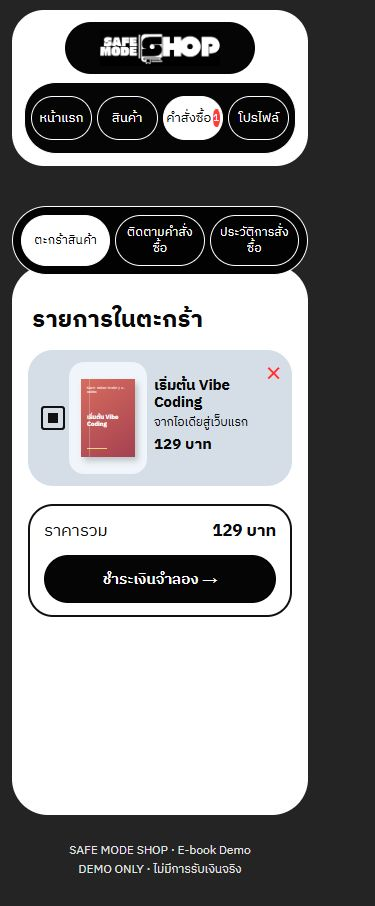
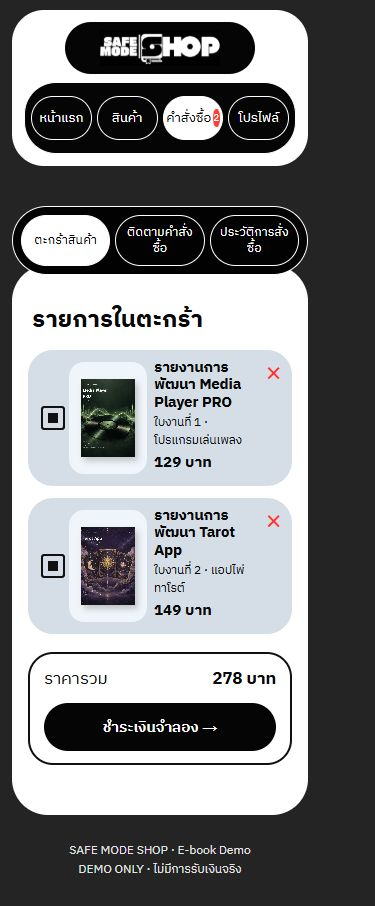
Replace sample catalog with four supplied PDFs

diff --git a/public/styles.css b/public/styles.css
@@ -60,21 +60,14 @@ input:not([type=checkbox]):focus{outline:3px solid #ffbaba;outline-offset:2px}
 .showcase-actions{display:flex;justify-content:center;align-items:center;gap:22px;color:#fff;padding:15px 0 35px}
 
 /* Book covers */
-.book-cover{width:165px;height:226px;color:#fff;padding:21px 17px;display:flex;flex-direction:column;justify-content:space-between;box-shadow:10px 12px 17px rgba(0,0,0,.2),inset 5px 0 6px rgba(0,0,0,.13);position:relative}
-.book-cover:after{content:"";position:absolute;left:8px;top:0;bottom:0;border-left:1px solid rgba(255,255,255,.25)}
-.cover-vibe{background:linear-gradient(145deg,#d76c5e,#a44151)}
-.cover-design{background:linear-gradient(145deg,#246b78,#16445b)}
-.cover-launch{background:linear-gradient(145deg,#8162ab,#494586)}
-.cover-kicker{font-size:.55rem;line-height:1.3;letter-spacing:.13em;opacity:.9}
-.cover-title{font-size:1.02rem;line-height:1.25}
-.cover-line{width:42px;height:2px;background:#f3d570}
+.book-cover{display:block;width:165px;height:226px;object-fit:cover;box-shadow:10px 12px 17px rgba(0,0,0,.2)}
 
 /* Catalog */
 .catalog-hero{background:#fff;border-radius:100px;padding:48px 5.5% 42px;min-height:360px;display:flex;flex-direction:column;align-items:flex-start}
 .catalog-hero h1{font-size:clamp(2.6rem,5.2vw,5.5rem);line-height:1.23;margin:10px 0 30px;font-weight:700;letter-spacing:-.045em}
 .catalog-hero h1 span{font-size:.73em}
 .catalog-hero p{font-weight:700;font-size:1.15rem;margin:auto 0 0}
-.product-grid{display:grid;grid-template-columns:repeat(3,minmax(0,1fr));gap:24px;padding:0 12px 35px}
+.product-grid{display:grid;grid-template-columns:repeat(4,minmax(0,1fr));gap:24px;padding:0 12px 35px}
 .product-card{background:#fff;border-radius:28px;overflow:hidden;display:flex;flex-direction:column}
 .product-cover{background:#e9f0f6;min-height:305px;display:grid;place-items:center}
 .product-copy{padding:21px 24px 25px;display:flex;flex-direction:column;flex:1}
@@ -179,7 +172,7 @@ input:not([type=checkbox]):focus{outline:3px solid #ffbaba;outline-offset:2px}
   .site-header{height:auto;min-height:95px}.brand{min-width:175px;width:220px;height:62px}
   .nav-pills{min-height:72px;padding:8px}.nav-pills>a:not(.nav-exit){min-width:100px;height:54px;padding:5px 15px;font-size:1rem}.nav-exit{font-size:2rem;padding-right:8px}
   .cart-row{grid-template-columns:32px 180px 1fr 35px}.cart-cover{height:185px}.cart-copy h2{font-size:1.4rem}
-  .product-grid{gap:16px}.product-copy{padding:18px}
+  .product-grid{grid-template-columns:repeat(2,minmax(0,1fr));gap:16px}.product-copy{padding:18px}
 }
 @media(max-width:800px){
   .app-shell{padding:10px 12px 0}.site-header{border-radius:32px;flex-wrap:wrap;padding:12px;gap:8px}.brand{margin:auto;height:52px;width:190px;min-width:190px}
@@ -200,10 +193,10 @@ input:not([type=checkbox]):focus{outline:3px solid #ffbaba;outline-offset:2px}
   .showcase{grid-template-columns:26px 1fr 26px;gap:3px;min-height:360px}.showcase-side{display:none}.showcase-feature{height:345px}.showcase-feature .book-cover{transform:scale(1.05)}.showcase-arrow{font-size:3rem}.showcase-actions{padding-top:12px}
   .detail-panel{display:block;padding:22px}.detail-cover{min-height:260px}.detail-cover .book-cover{transform:scale(.95)}.detail-copy{padding-top:23px}.detail-copy h2{font-size:2rem}.detail-subtitle{font-size:1.1rem}.detail-meta{gap:18px;font-size:.88rem}.detail-actions .pill-button{flex:1}
   .order-tabs a{font-size:.78rem;white-space:normal;min-height:47px;display:grid;place-items:center}.cart-panel>h1,.history-panel>h1{font-size:1.5rem;margin:15px 4px}
-  .cart-row{grid-template-columns:25px 78px 1fr 24px;gap:7px;min-height:136px;padding:9px}.cart-cover{height:112px}.cart-cover .book-cover{width:54px;height:78px;padding:8px 6px;transform:none;box-shadow:3px 4px 6px rgba(0,0,0,.2)}.cart-cover .cover-kicker{font-size:.19rem}.cart-cover .cover-title{font-size:.38rem}.cart-cover .cover-line{width:20px;height:1px}.cart-copy h2{font-size:.92rem}.cart-copy p{font-size:.74rem;margin:1px 0}.cart-copy p:nth-of-type(2){display:none}.cart-copy strong{font-size:.95rem}.remove-button{font-size:1.8rem;width:24px;height:28px}
+  .cart-row{grid-template-columns:25px 78px 1fr 24px;gap:7px;min-height:136px;padding:9px}.cart-cover{height:112px}.cart-cover .book-cover{width:54px;height:78px;transform:none;box-shadow:3px 4px 6px rgba(0,0,0,.2)}.cart-copy h2{font-size:.92rem}.cart-copy p{font-size:.74rem;margin:1px 0}.cart-copy p:nth-of-type(2){display:none}.cart-copy strong{font-size:.95rem}.remove-button{font-size:1.8rem;width:24px;height:28px}
   .cart-total{border-radius:25px;display:block;padding:12px 14px;font-size:1.05rem}.cart-total span{margin-bottom:11px}.cart-total .pill-button{width:100%;min-width:0;min-height:48px}
   .checkout-panel,.status-panel{border-radius:30px;padding:24px 20px}.checkout-title h2,.status-panel-head h2{font-size:1.45rem;word-break:break-word}.demo-note{display:block;padding:12px;font-size:.85rem}.demo-note strong{display:inline-block;margin-right:6px}
-  .checkout-columns{display:block}.checkout-columns>div+div{margin-top:30px;border-top:1px solid #ccc;padding-top:25px}.checkout-cover,.status-cover{width:75px;height:85px;border-radius:13px}.checkout-cover .book-cover,.status-cover .book-cover{width:48px;height:68px;padding:7px 5px;transform:none;box-shadow:2px 3px 5px rgba(0,0,0,.2)}.checkout-cover .cover-kicker,.status-cover .cover-kicker{font-size:.17rem}.checkout-cover .cover-title,.status-cover .cover-title{font-size:.34rem}.checkout-cover .cover-line,.status-cover .cover-line{width:18px;height:1px}
+  .checkout-columns{display:block}.checkout-columns>div+div{margin-top:30px;border-top:1px solid #ccc;padding-top:25px}.checkout-cover,.status-cover{width:75px;height:85px;border-radius:13px}.checkout-cover .book-cover,.status-cover .book-cover{width:48px;height:68px;transform:none;box-shadow:2px 3px 5px rgba(0,0,0,.2)}
   .status-id{display:block;font-size:.86rem}.status-id strong{display:block}.status-id button{margin-top:5px}.status-facts{display:block}.status-facts>div+div{margin-top:10px}.payment-demo{display:block}.payment-demo .pill-button{width:100%;margin-top:17px}.track-panel{border-radius:30px;padding:25px 20px}.track-panel h1{font-size:1.8rem}
   .history-row{display:block;padding:16px}.history-row>div:last-child{margin-top:12px;gap:13px}
   .profile-layout{display:block}.profile-card{min-height:0;padding:30px 22px}.profile-card h1{font-size:2rem}.profile-fields{display:block}.profile-visual{display:none}

diff --git a/tests/flow.test.js b/tests/flow.test.js
@@ -20,15 +20,15 @@ test('private storage signed URL uses the storage endpoint and server-only key',
   process.env.SUPABASE_URL = 'https://sample.supabase.co';
   process.env.SUPABASE_SECRET_KEY = 'sb_secret_test_only';
   globalThis.fetch = async (url, options) => {
-    assert.equal(url, 'https://sample.supabase.co/storage/v1/object/sign/ebooks/vibe-coding.pdf');
+    assert.equal(url, 'https://sample.supabase.co/storage/v1/object/sign/ebooks/media-player-pro.pdf');
     assert.equal(options.headers.apikey, 'sb_secret_test_only');
     assert.equal(options.headers.Authorization, undefined);
     assert.deepEqual(JSON.parse(options.body), { expiresIn: 300 });
-    return Response.json({ signedURL: '/object/sign/ebooks/vibe-coding.pdf?token=sample' });
+    return Response.json({ signedURL: '/object/sign/ebooks/media-player-pro.pdf?token=sample' });
   };
   try {
-    const url = await signedBookUrl({ file: 'vibe-coding.pdf' });
-    assert.equal(url, 'https://sample.supabase.co/storage/v1/object/sign/ebooks/vibe-coding.pdf?token=sample&download=vibe-coding.pdf');
+    const url = await signedBookUrl({ file: 'media-player-pro.pdf' });
+    assert.equal(url, 'https://sample.supabase.co/storage/v1/object/sign/ebooks/media-player-pro.pdf?token=sample&download=media-player-pro.pdf');
   } finally {
     globalThis.fetch = oldFetch;
     if (oldUrl === undefined) delete process.env.SUPABASE_URL; else process.env.SUPABASE_URL = oldUrl;
@@ -38,10 +38,12 @@ test('private storage signed URL uses the storage endpoint and server-only key',
 
 test('complete local demo flow and protect order lookup and download', async () => {
   const catalog = await (await booksApi.fetch(request('books'))).json();
-  assert.equal(catalog.books.length, 3);
+  assert.equal(catalog.books.length, 4);
   assert.ok(catalog.books.every(item => item.title && item.description && item.price));
+  assert.deepEqual(catalog.books.map(item => item.id), ['media-player-pro', 'tarot-app', 'sqlite-task-manager-guide', 'sqlite-task-manager-report']);
+  assert.ok(catalog.books.every(item => item.cover.startsWith('/assets/covers/') && !('file' in item)));
 
-  const created = await ordersApi.fetch(request('orders', { bookId: 'vibe-coding', name: 'ทดสอบ ระบบ', email: 'Test@Example.com' }));
+  const created = await ordersApi.fetch(request('orders', { bookId: 'media-player-pro', name: 'ทดสอบ ระบบ', email: 'Test@Example.com' }));
   assert.equal(created.status, 201);
   const order = (await created.json()).order;
   assert.match(order.id, /^EB-[A-F0-9]{24}$/);
@@ -75,25 +77,25 @@ test('complete local demo flow and protect order lookup and download', async () 
 
 test('cart checkout keeps multiple books together and scopes each download', async () => {
   const response = await ordersApi.fetch(request('orders', {
-    bookIds: ['vibe-coding', 'web-design'],
+    bookIds: ['media-player-pro', 'tarot-app', 'sqlite-task-manager-guide', 'sqlite-task-manager-report'],
     name: 'ผู้ทดสอบ',
     email: 'cart@example.com'
   }));
   assert.equal(response.status, 201);
   const created = (await response.json()).order;
   assert.equal(created.status, 'PENDING');
-  assert.equal(created.items.length, 2);
-  assert.equal(created.price, 278);
+  assert.equal(created.items.length, 4);
+  assert.equal(created.price, created.items.reduce((sum, item) => sum + item.price, 0));
 
   const paid = (await (await payApi.fetch(request('pay', { id: created.id, email: created.email }))).json()).order;
   assert.equal(paid.status, 'PAID');
-  assert.equal(Object.keys(paid.downloadUrls).length, 2);
+  assert.equal(Object.keys(paid.downloadUrls).length, 4);
   for (const item of paid.items) {
     const file = await downloadApi.fetch(new Request(paid.downloadUrls[item.id]));
     assert.equal(file.status, 200);
-    assert.match(file.headers.get('content-disposition'), new RegExp(item.id === 'vibe-coding' ? 'vibe-coding.pdf' : 'web-design.pdf'));
+    assert.match(file.headers.get('content-disposition'), new RegExp(`${item.id}\\.pdf`));
   }
-  const unrelated = makeDownloadToken({ id: created.id, book_id: 'launch-guide' });
+  const unrelated = makeDownloadToken({ id: created.id, book_id: 'vibe-coding' });
   const forbidden = await downloadApi.fetch(request(`download?token=${unrelated}`));
   assert.equal(forbidden.status, 403);
 });

diff --git a/lib/catalog.js b/lib/catalog.js
@@ -1,33 +1,43 @@
 export const books = [
   {
-    id: 'vibe-coding',
-    title: 'เริ่มต้น Vibe Coding',
-    subtitle: 'จากไอเดียสู่เว็บแรก',
-    description: 'ฝึกสั่ง AI อย่างมีเป้าหมาย วางแผนหน้าจอ และตรวจโค้ดทีละขั้น',
+    id: 'media-player-pro',
+    title: 'รายงานการพัฒนา Media Player PRO',
+    subtitle: 'ใบงานที่ 1 · โปรแกรมเล่นเพลง',
+    description: 'รายงาน 10 หน้าเกี่ยวกับการออกแบบและพัฒนาโปรแกรมเล่นเพลงด้วย Python และ PyQt6 พร้อม Playlist, Waveform, Equalizer และผลทดสอบ',
     price: 129,
-    author: 'Demo E-book Studio',
-    cover: 'cover-vibe',
-    file: 'vibe-coding.pdf'
+    author: 'นพนันท์ ศุภมาตร์',
+    cover: '/assets/covers/media-player-pro.jpg',
+    file: 'media-player-pro.pdf'
   },
   {
-    id: 'web-design',
-    title: 'ออกแบบเว็บให้อ่านง่าย',
-    subtitle: 'UI ที่เริ่มจากคนใช้',
-    description: 'หลักการจัดลำดับข้อมูล สี ตัวอักษร และการออกแบบสำหรับมือถือ',
+    id: 'tarot-app',
+    title: 'รายงานการพัฒนา Tarot App',
+    subtitle: 'ใบงานที่ 2 · แอปไพ่ทาโรต์',
+    description: 'รายงาน 14 หน้าเกี่ยวกับหน้าจอ แผนพัฒนา และการทดสอบแอปไพ่ทาโรต์ด้วย Python และ PyQt6 รวมโหมดอดีต ปัจจุบัน อนาคต',
     price: 149,
-    author: 'Demo E-book Studio',
-    cover: 'cover-design',
-    file: 'web-design.pdf'
+    author: 'นพนันท์ ศุภมาตร์',
+    cover: '/assets/covers/tarot-app.jpg',
+    file: 'tarot-app.pdf'
   },
   {
-    id: 'launch-guide',
-    title: 'ปล่อยเว็บอย่างมั่นใจ',
-    subtitle: 'เช็กลิสต์ก่อนขึ้นระบบ',
-    description: 'รู้จักการตั้งค่า environment, ทดสอบ flow และตรวจความปลอดภัยพื้นฐาน',
-    price: 169,
-    author: 'Demo E-book Studio',
-    cover: 'cover-launch',
-    file: 'launch-guide.pdf'
+    id: 'sqlite-task-manager-guide',
+    title: 'คู่มือใช้งาน SQLite Task Manager PRO',
+    subtitle: 'คู่มือ · ติดตั้งและเริ่มใช้งาน',
+    description: 'คู่มือ PDF 5 หน้า ครอบคลุมการติดตั้ง เปิดโปรแกรม เริ่มจัดการงาน และนำเข้าข้อมูลตัวอย่างด้วย CSV',
+    price: 99,
+    author: 'นพนันท์ ศุภมาตร์',
+    cover: '/assets/covers/sqlite-task-manager-guide.jpg',
+    file: 'sqlite-task-manager-guide.pdf'
+  },
+  {
+    id: 'sqlite-task-manager-report',
+    title: 'รายงานการพัฒนา SQLite Task Manager PRO',
+    subtitle: 'ใบงานที่ 3 · โปรแกรมจัดการงาน',
+    description: 'รายงาน 8 หน้าเกี่ยวกับแนวคิดและผลการพัฒนาโปรแกรมจัดการงานด้วย Python, PyQt6 และ SQLite พร้อมสรุปผลทดสอบ',
+    price: 149,
+    author: 'นพนันท์ ศุภมาตร์',
+    cover: '/assets/covers/sqlite-task-manager-report.jpg',
+    file: 'sqlite-task-manager-report.pdf'
   }
 ];
 

diff --git a/public/app.js b/public/app.js
@@ -17,7 +17,7 @@ function writeSession(key, value) { try { sessionStorage.setItem(key, JSON.strin
 const esc = value => String(value ?? '').replace(/[&<>"']/g, char => ({ '&': '&amp;', '<': '&lt;', '>': '&gt;', '"': '&quot;', "'": '&#39;' })[char]);
 const money = amount => new Intl.NumberFormat('th-TH').format(amount) + ' บาท';
 const book = id => books.find(item => item.id === id);
-const cover = item => `<div class="book-cover ${esc(item.cover)}" role="img" aria-label="ปกหนังสือ ${esc(item.title)}"><span class="cover-kicker">SAFE MODE SHOP / E-BOOK</span><strong class="cover-title">${esc(item.title)}</strong><span class="cover-line"></span></div>`;
+const cover = item => `<img class="book-cover" src="${esc(item.cover)}" alt="ปกหนังสือ ${esc(item.title)}" loading="lazy">`;
 const notice = (text, kind = 'error') => `<div class="notice notice-${kind}" role="alert">${esc(text)}</div>`;
 const demo = '<div class="demo-note"><strong>DEMO ONLY</strong><span>การชำระเงินเป็นเพียงการจำลอง ไม่มีการรับเงินจริง ไม่มีการเก็บข้อมูลบัตรหรือ OTP</span></div>';
 
@@ -57,7 +57,7 @@ function home() {
 }
 
 function catalog() {
-  setView(`<section class="catalog-hero"><div class="kicker">E-BOOK</div><h1>หนังสืออิเล็กทรอนิกส์<br><span>อ่านเรื่องใหม่เริ่มได้ที่นี่</span></h1><p>เลือก E-book ที่สนใจ แล้วลองสั่งซื้อผ่านระบบได้ทันที</p></section><div class="section-title"><h2>หนังสือทั้งหมด</h2><span>${books.length} เล่ม · PDF ตัวอย่าง</span></div><div class="product-grid">${books.map(productCard).join('')}</div>`, 'catalog');
+  setView(`<section class="catalog-hero"><div class="kicker">E-BOOK</div><h1>หนังสืออิเล็กทรอนิกส์<br><span>อ่านเรื่องใหม่เริ่มได้ที่นี่</span></h1><p>เลือกเอกสาร PDF ที่สนใจ แล้วลองสั่งซื้อผ่านระบบได้ทันที</p></section><div class="section-title"><h2>หนังสือทั้งหมด</h2><span>${books.length} เล่ม · เอกสาร PDF</span></div><div class="product-grid">${books.map(productCard).join('')}</div>`, 'catalog');
 }
 
 function detail(id) {

diff --git a/api/orders.js b/api/orders.js
@@ -7,12 +7,12 @@ export default { async fetch(request) {
     method(request, 'POST');
     const input = await body(request);
     const ids = Array.isArray(input.bookIds) ? input.bookIds : [input.bookId];
-    if (ids.length < 1 || ids.length > 3 || ids.some(id => typeof id !== 'string') || new Set(ids).size !== ids.length) {
+    if (ids.length < 1 || ids.length > 4 || ids.some(id => typeof id !== 'string') || new Set(ids).size !== ids.length) {
       return json({ error: 'เลือกหนังสืออย่างน้อยหนึ่งเล่ม' }, 400);
     }
     const books = await Promise.all(ids.map(getBook));
     const name = typeof input.name === 'string' ? input.name.trim() : '';
-    if (books.some(book => !book) || name.length < 2 || name.length > 80 || !validateEmail(input.email)) {
+    if (books.some(book => !book || book.active === false) || name.length < 2 || name.length > 80 || !validateEmail(input.email)) {
       return json({ error: 'กรุณาตรวจชื่อ อีเมล และหนังสือที่เลือก' }, 400);
     }
     const order = await createOrder({

diff --git a/lib/store.js b/lib/store.js
@@ -76,7 +76,7 @@ export async function updateOrder(id, changes) {
 
 export async function listBooks() {
   if (isLocalDemo()) return books;
-  return supabase('books', 'GET', '?select=*&order=id.asc');
+  return supabase('books', 'GET', '?select=*&active=eq.true&order=id.asc');
 }
 
 export async function getBook(id) {
@@ -87,6 +87,5 @@ export async function getBook(id) {
 
 export async function getOrderBooks(order) {
   const ids = Array.isArray(order.book_ids) && order.book_ids.length ? order.book_ids : [order.book_id];
-  const catalog = await listBooks();
-  return ids.map(id => catalog.find(book => book.id === id)).filter(Boolean);
+  return (await Promise.all(ids.map(getBook))).filter(Boolean);
 }

diff --git a/README.md b/README.md
@@ -1,6 +1,17 @@
 # SAFE MODE SHOP — E-book Shop Demo
 
-เว็บร้าน E-book สาธิตตามใบงาน Vibe Coding 2026 ปรับหน้าตาตามภาพต้นแบบ SAFE MODE SHOP: โทนขาวดำ, เมนูทรงแคปซูล, หน้าแรกแบบสไลด์, แค็ตตาล็อก, ตะกร้า, ติดตามคำสั่งซื้อ และโปรไฟล์ในเบราว์เซอร์ มีหนังสือตัวอย่าง 3 เล่ม เลือกซื้อพร้อมกันได้สูงสุด 3 เล่ม แล้ว Checkout เป็นคำสั่งซื้อ `PENDING` ปุ่ม Mock Payment เปลี่ยนเป็น `PAID` และแสดงลิงก์ดาวน์โหลดของแต่ละเล่ม ไม่มีการรับเงินจริง
+เว็บร้าน E-book สาธิตตามใบงาน Vibe Coding 2026 ปรับหน้าตาตามภาพต้นแบบ SAFE MODE SHOP: โทนขาวดำ, เมนูทรงแคปซูล, หน้าแรกแบบสไลด์, แค็ตตาล็อก, ตะกร้า, ติดตามคำสั่งซื้อ และโปรไฟล์ในเบราว์เซอร์ แค็ตตาล็อกใช้ PDF ที่ผู้ใช้ให้มา 4 ไฟล์แทนหนังสือตัวอย่างเดิม เลือกซื้อพร้อมกันได้สูงสุด 4 เล่ม แล้ว Checkout เป็นคำสั่งซื้อ `PENDING` ปุ่ม Mock Payment เปลี่ยนเป็น `PAID` และแสดงลิงก์ดาวน์โหลดของแต่ละเล่ม ไม่มีการรับเงินจริง
+
+## หนังสือที่แสดงในร้าน
+
+| ไฟล์ใน private-books | รายการ | หน้า | ราคาชั่วคราว |
+| --- | --- | ---: | ---: |
+| `media-player-pro.pdf` | รายงานการพัฒนา Media Player PRO | 10 | 129 บาท |
+| `tarot-app.pdf` | รายงานการพัฒนา Tarot App | 14 | 149 บาท |
+| `sqlite-task-manager-guide.pdf` | คู่มือใช้งาน SQLite Task Manager PRO | 5 | 99 บาท |
+| `sqlite-task-manager-report.pdf` | รายงานการพัฒนา SQLite Task Manager PRO | 8 | 149 บาท |
+
+ราคายังรอเจ้าของร้านยืนยัน แก้ให้ตรงกันทั้ง [catalog.js](lib/catalog.js) และ [schema.sql](supabase/schema.sql) ก่อนเผยแพร่ ภาพปกอยู่ใน `public/assets/covers/` ซึ่งแสดงได้โดยไม่เปิด PDF เต็มเล่ม ส่วน PDF จริงอยู่ใน `private-books/` และถูกละเว้นจาก Git
 
 ## ทดสอบในเครื่อง
 
@@ -19,7 +30,7 @@ npm test
 ## ตั้งค่า Supabase และอีเมล
 
 1. สร้าง Supabase project แล้วรัน [schema.sql](supabase/schema.sql) ใน SQL Editor จะได้ตาราง `books`, `orders` ที่เปิด RLS และ private Storage bucket ชื่อ `ebooks`
-2. อัปโหลด PDF ทั้ง 3 ไฟล์จาก `private-books/` ไปยัง bucket `ebooks` โดยคงชื่อไฟล์เดิม และตรวจว่า bucket **ไม่เป็น public**
+2. อัปโหลดเฉพาะ PDF ทั้ง 4 ไฟล์ในตารางข้างบนจาก `private-books/` ไปยัง bucket `ebooks` โดยคงชื่อไฟล์เดิม และตรวจว่า bucket **ไม่เป็น public**
 3. สร้าง Resend API key และยืนยันโดเมนผู้ส่ง แล้วใช้ที่อยู่นั้นใน `EMAIL_FROM` ถ้าใช้โดเมนทดสอบของ Resend อาจส่งได้เฉพาะอีเมลบัญชีผู้สร้าง
 4. ตั้งค่า Environment Variables ใน Vercel ตาม [.env.example](.env.example): `SUPABASE_URL`, `SUPABASE_SECRET_KEY`, `RESEND_API_KEY`, `EMAIL_FROM`, `DOWNLOAD_SECRET`, `PUBLIC_SITE_URL` ห้ามนำ secret ใส่หน้าเว็บหรือ GitHub
 5. เชื่อม repository กับ Vercel แล้ว deploy โดยใช้ root directory ของโปรเจกต์นี้ ไม่ต้องมี build command จากนั้นเปิด Production URL เพื่อทดสอบครบ flow

diff --git a/REPORT.md b/REPORT.md
@@ -7,12 +7,12 @@
 | รายการ | ผลตรวจ |
 | --- | --- |
 | ปรับหน้าแรก สินค้า ตะกร้า ชำระเงิน คำสั่งซื้อ และโปรไฟล์ตามภาพต้นแบบ | ทำแล้ว; เปิดตรวจภาพหน้าเดสก์ท็อปและมือถือ |
-| หนังสือ 3 เล่ม พร้อมปก ชื่อ คำอธิบาย ราคา | ทำแล้ว; ใช้ PDF ตัวอย่างที่สร้างสำหรับใบงานนี้ |
-| ตะกร้าหลายเล่มและยอดรวม | ผ่านการทดสอบ 2 เล่ม ยอด 278 บาท |
+| PDF จริง 4 ไฟล์ พร้อมปก ชื่อ คำอธิบาย ราคา | ทำแล้ว; คัดลอกจากไฟล์ที่ผู้ใช้ให้มาและตรวจ SHA-256 ตรงต้นฉบับ ราคายังเป็นค่าชั่วคราว |
+| ตะกร้าหลายเล่มและยอดรวม | ผ่านการทดสอบทั้ง 4 เล่ม; ทดลองในเบราว์เซอร์ 2 เล่ม ยอด 278 บาทตามราคาชั่วคราว |
 | Checkout สร้างเลขคำสั่งซื้อและ PENDING | ผ่านการทดสอบ |
 | ป้าย DEMO ONLY และปุ่มเปลี่ยนเป็น PAID | ผ่านการทดสอบ |
 | ติดตามด้วยเลขคำสั่งซื้อและอีเมล | ผ่านการทดสอบ; อีเมลไม่ตรงได้ 404 |
-| ลิงก์ดาวน์โหลดแยกเล่มหลัง PAID | ผ่านในเครื่อง; PDF แต่ละเล่มเปิดได้ และ token ของเล่มที่ไม่อยู่ในคำสั่งซื้อได้ 403 |
+| ลิงก์ดาวน์โหลดแยกเล่มหลัง PAID | ผ่านในเครื่อง; PDF จริงทั้ง 4 ไฟล์เปิดได้ และ token ของเล่มที่ไม่อยู่ในคำสั่งซื้อได้ 403 |
 | ทดสอบอีเมล | โหมดในเครื่องแสดงผล `DEMO`; ยังไม่ใช่การส่งอีเมลจริง |
 
 ภาพหลักฐานที่บันทึกจากการทดสอบ **ในเครื่อง**:
@@ -31,6 +31,7 @@
 | รายการ | สถานะ / หลักฐานที่ต้องแนบ |
 | --- | --- |
 | Supabase books/orders, RLS และ private bucket | ยังไม่เชื่อมบัญชี; รัน `supabase/schema.sql` และอัปโหลด PDF |
+| ยืนยันราคาขายทั้ง 4 รายการ | ยังไม่ได้ราคาจากเจ้าของร้าน; ตัวเลขที่แสดงตอนนี้เป็นราคาชั่วคราว |
 | Resend ส่งอีเมลจริง | ยังไม่มี API key และโดเมนผู้ส่ง; แนบภาพอีเมลที่ได้รับหลัง PAID |
 | GitHub repository ไม่มี secret | ยังไม่มี repository ที่เชื่อมได้; ตรวจ `.env` ไม่ถูก commit |
 | Vercel Production URL | ยังไม่เผยแพร่; แนบ URL และภาพทดสอบ flow บน production |
